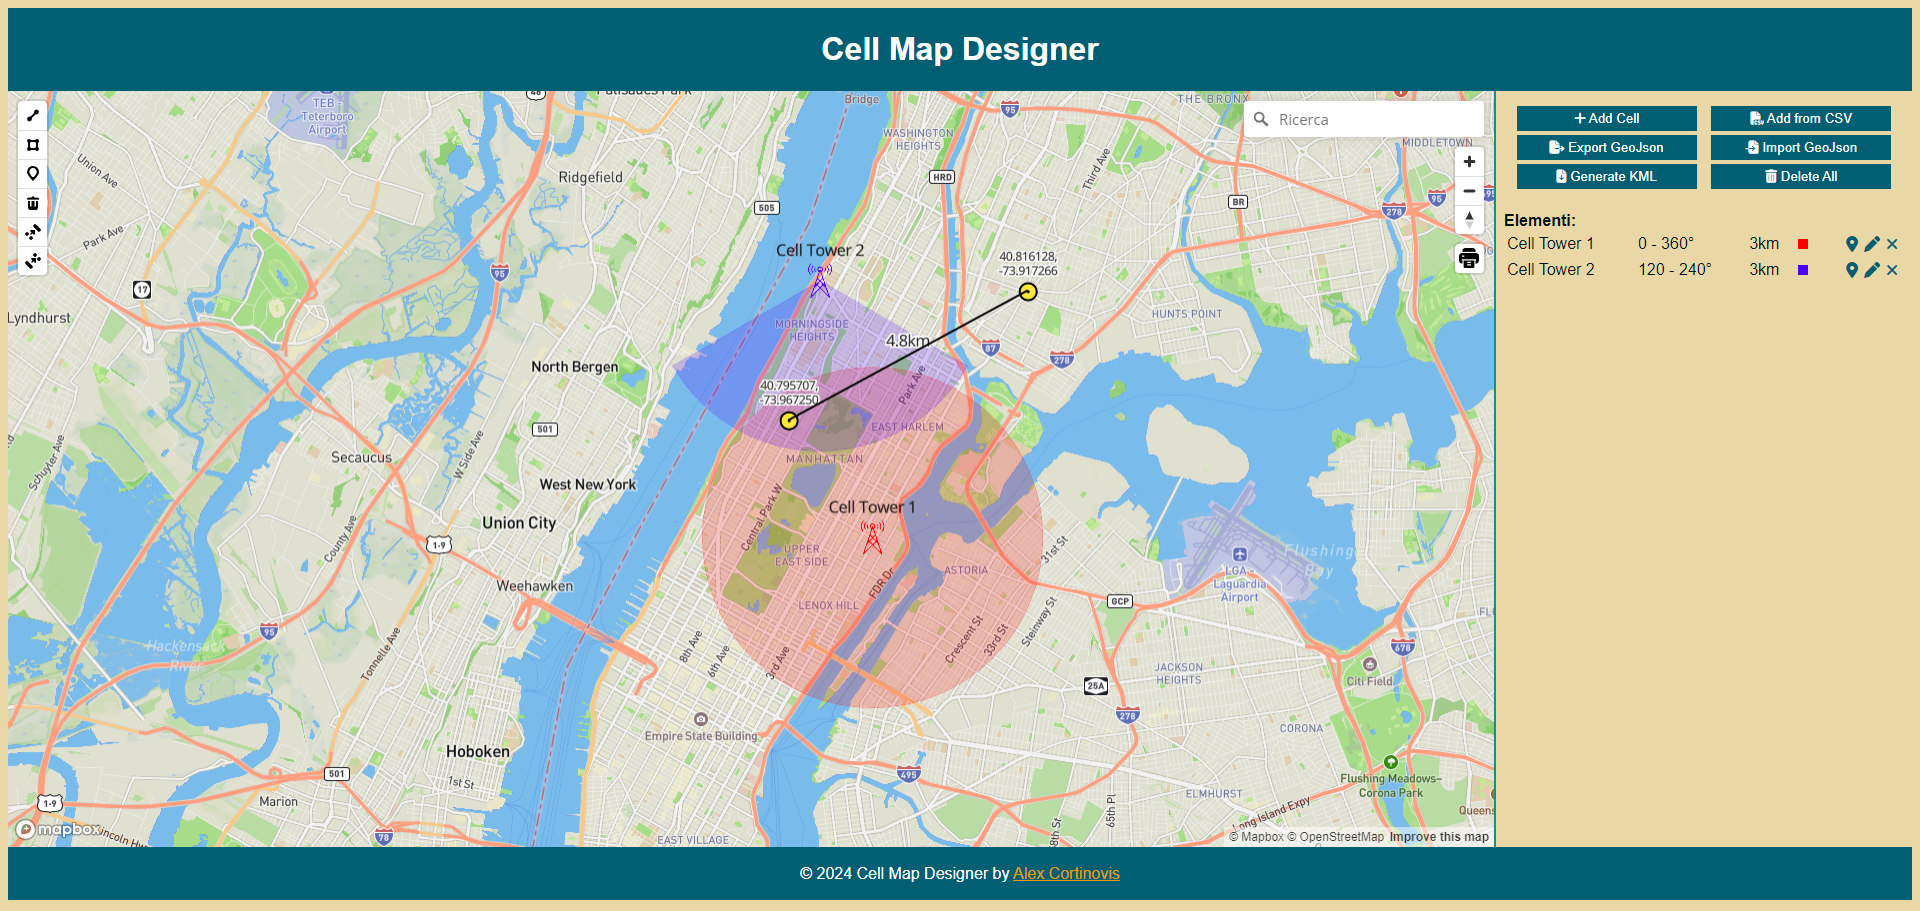
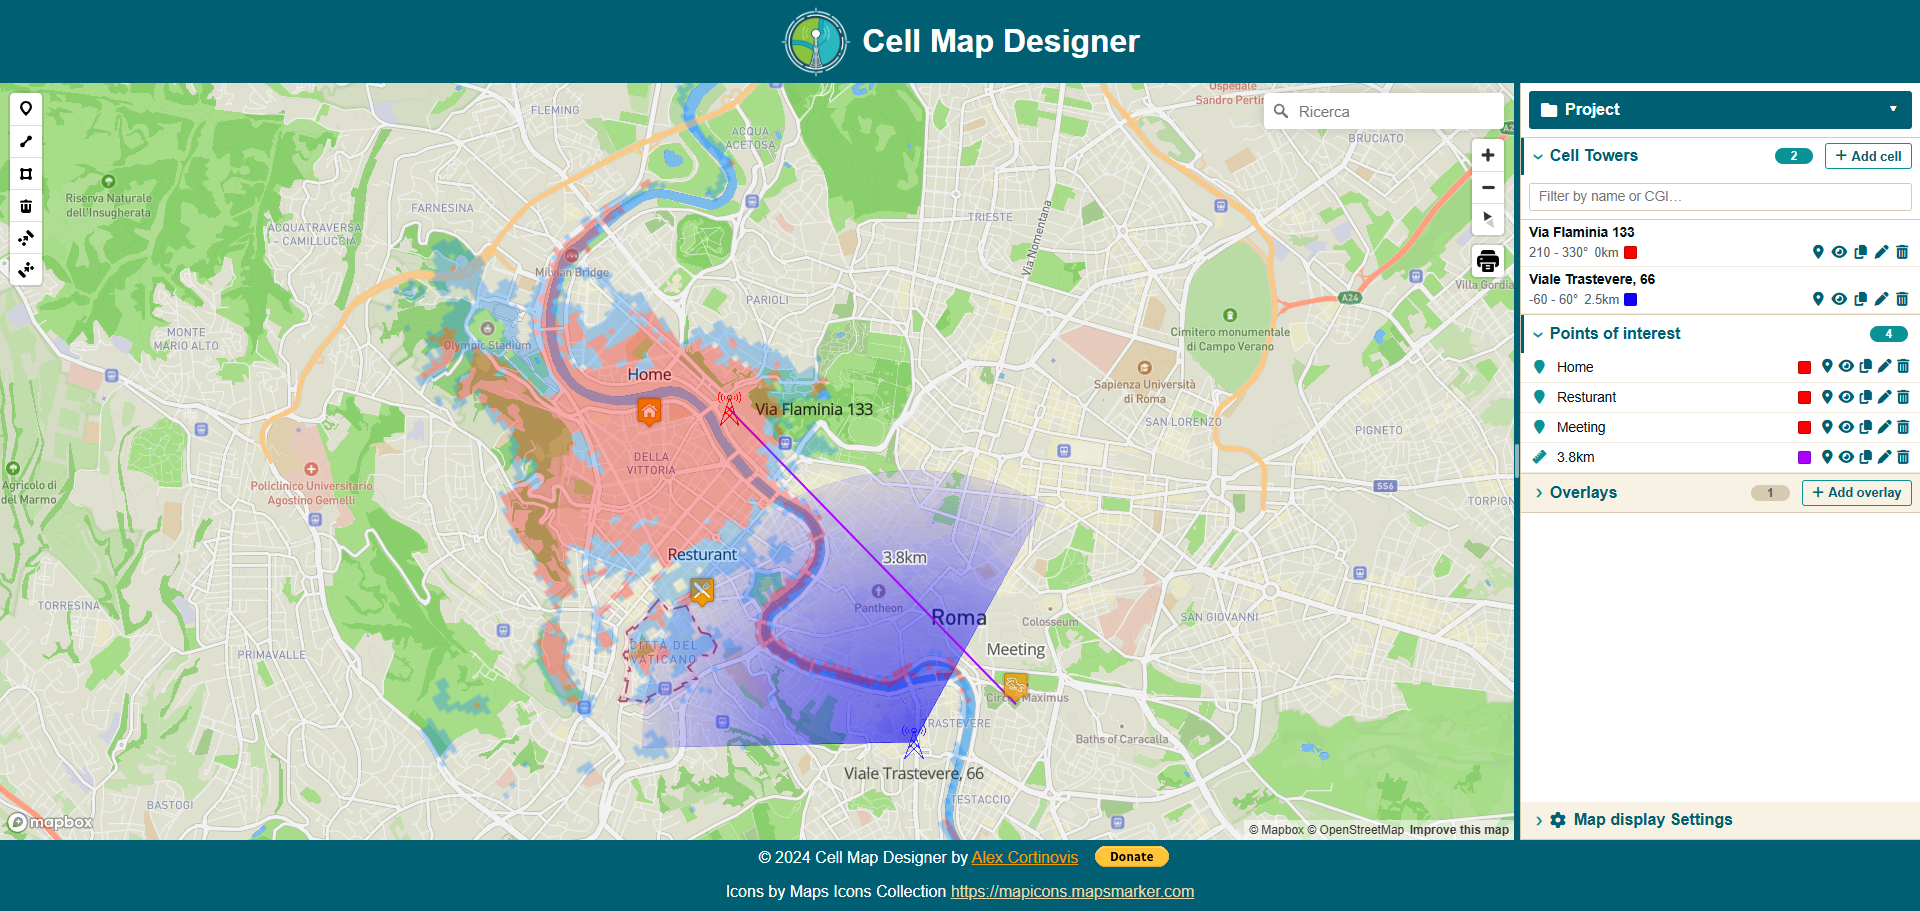
docs: :memo: Edit screenshot and links in readme

diff --git a/README.md b/README.md
@@ -22,7 +22,7 @@
 <!-- PROJECT LOGO
 <br />
 <div align="center">
-  <a href="https://github.com/walker93/CellMap">
+  <a href="https://github.com/walker93/cellmap-v2">
     <img src="images/logo.png" alt="Logo" width="80" height="80">
   </a>
 -->
@@ -31,14 +31,14 @@
   <p align="center">
     This utility lets the user visually rapresents Point of Interest and Cell Towers on a map.
     <br />
-    <a href="https://github.com/walker93/CellMap"><strong>Explore the docs »</strong></a>
+    <a href="https://github.com/walker93/cellmap-v2"><strong>Explore the docs »</strong></a>
     <br />
     <br />
-    <a href="https://alexcortinovis.tech/CellMapDesigner">View Demo</a>
+    <a href="https://alexcortinovis.tech/cellmapdesigner/">View Demo</a>
     ·
-    <a href="https://github.com/walker93/CellMap/issues/new?labels=bug&template=bug-report---.md">Report Bug</a>
+    <a href="https://github.com/walker93/cellmap-v2/issues/new?labels=bug&template=bug-report---.md">Report Bug</a>
     ·
-    <a href="https://github.com/walker93/CellMap/issues/new?labels=enhancement&template=feature-request---.md">Request Feature</a>
+    <a href="https://github.com/walker93/cellmap-v2/issues/new?labels=enhancement&template=feature-request---.md">Request Feature</a>
   </p>
 </div>
 
@@ -119,7 +119,7 @@ This is an example of how to list things you need to use the software and how to
 1. Get a free API Key at [mapbox.com](https://docs.mapbox.com/help/getting-started/access-tokens/)
 2. Clone the repo
     ```sh
-    git clone https://github.com/walker93/cellmap-v2.git
+    git clone https://github.com/walker93/cellmap-v2-v2.git
     cd cellmap-v2
     ```
 3. Create your `config.js` from the template and paste your Mapbox token
@@ -166,7 +166,7 @@ _For more examples, please refer to the [Documentation](https://example.com)_
 - [ ] Feature 3
     - [ ] Nested Feature
 
-See the [open issues](https://github.com/walker93/CellMap/issues) for a full list of proposed features (and known issues).
+See the [open issues](https://github.com/walker93/cellmap-v2/issues) for a full list of proposed features (and known issues).
 
 <p align="right">(<a href="#readme-top">back to top</a>)</p>
 -->
@@ -202,7 +202,7 @@ Distributed under the MIT License. See `LICENSE.txt` for more information.
 
 <!-- Your Name - [@twitter_handle](https://twitter.com/twitter_handle) - email@email_client.com -->
 
-Project Link: [https://github.com/walker93/CellMap](https://github.com/walker93/CellMap)
+Project Link: [https://github.com/walker93/cellmap-v2](https://github.com/walker93/cellmap-v2)
 
 <p align="right">(<a href="#readme-top">back to top</a>)</p>
 
@@ -219,16 +219,16 @@ Project Link: [https://github.com/walker93/CellMap](https://github.com/walker93/
 <!-- MARKDOWN LINKS & IMAGES -->
 <!-- https://www.markdownguide.org/basic-syntax/#reference-style-links -->
 
-[contributors-shield]: https://img.shields.io/github/contributors/walker93/CellMap.svg?style=for-the-badge
-[contributors-url]: https://github.com/walker93/CellMap/graphs/contributors
-[forks-shield]: https://img.shields.io/github/forks/walker93/CellMap.svg?style=for-the-badge
-[forks-url]: https://github.com/walker93/CellMap/network/members
-[stars-shield]: https://img.shields.io/github/stars/walker93/CellMap.svg?style=for-the-badge
-[stars-url]: https://github.com/walker93/CellMap/stargazers
-[issues-shield]: https://img.shields.io/github/issues/walker93/CellMap.svg?style=for-the-badge
-[issues-url]: https://github.com/walker93/CellMap/issues
-[license-shield]: https://img.shields.io/github/license/walker93/CellMap.svg?style=for-the-badge
-[license-url]: https://github.com/walker93/CellMap/blob/master/LICENSE.txt
+[contributors-shield]: https://img.shields.io/github/contributors/walker93/cellmap-v2.svg?style=for-the-badge
+[contributors-url]: https://github.com/walker93/cellmap-v2/graphs/contributors
+[forks-shield]: https://img.shields.io/github/forks/walker93/cellmap-v2.svg?style=for-the-badge
+[forks-url]: https://github.com/walker93/cellmap-v2/network/members
+[stars-shield]: https://img.shields.io/github/stars/walker93/cellmap-v2.svg?style=for-the-badge
+[stars-url]: https://github.com/walker93/cellmap-v2/stargazers
+[issues-shield]: https://img.shields.io/github/issues/walker93/cellmap-v2.svg?style=for-the-badge
+[issues-url]: https://github.com/walker93/cellmap-v2/issues
+[license-shield]: https://img.shields.io/github/license/walker93/cellmap-v2.svg?style=for-the-badge
+[license-url]: https://github.com/walker93/cellmap-v2/blob/master/LICENSE.txt
 [linkedin-shield]: https://img.shields.io/badge/-LinkedIn-black.svg?style=for-the-badge&logo=linkedin&colorB=555
 [linkedin-url]: https://linkedin.com/in/linkedin_username
 [product-screenshot]: images/screenshot.png
